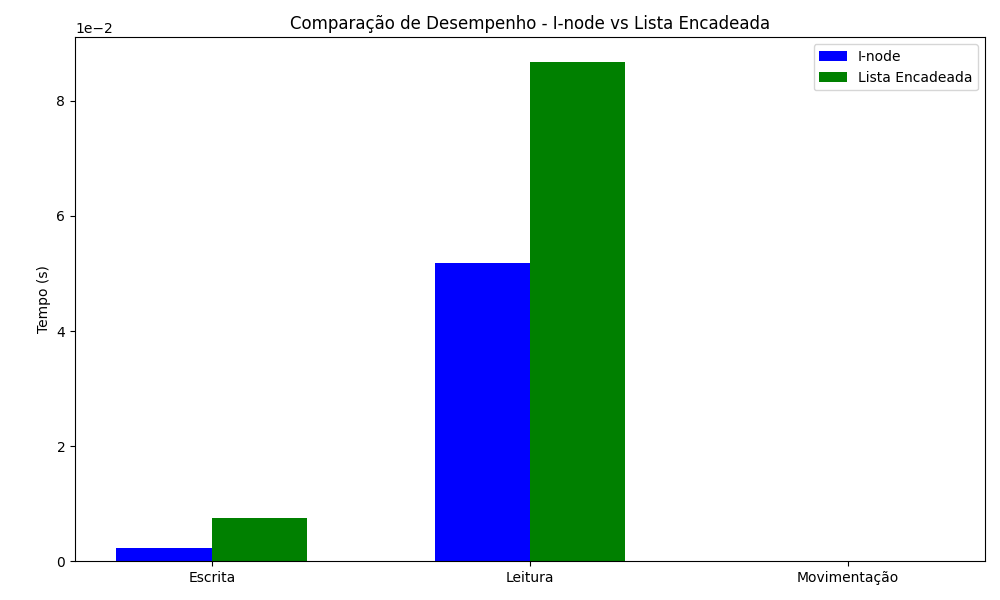
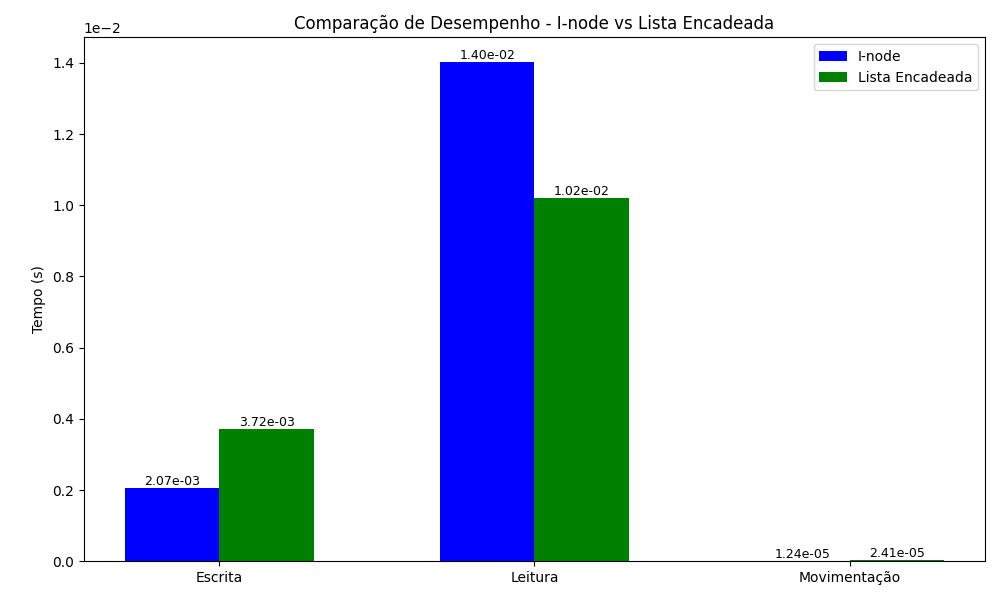
teste: acesso aleatório e navegação

diff --git a/testes/comparar_desempenho.py b/testes/comparar_desempenho.py
@@ -1,7 +1,6 @@
+import random
 import time
 import matplotlib.pyplot as plt
-from inode.file_system_inode import FileSystemInode
-from lista_encadeada.file_system_linked_list import FileSystemLinkedList
 import os
 
 def measure_time(func, *args, **kwargs):
@@ -11,7 +10,7 @@ def measure_time(func, *args, **kwargs):
     return end - start
 
 def performance_test_inode(fs_inode):
-    large_text = "ABCD" * 10000  # 10.000 caracteres
+    large_text = "ABCD" * 10000
 
     fs_inode.touch("bigfile.txt")
 
@@ -23,7 +22,7 @@ def performance_test_inode(fs_inode):
     return [t_write, t_read, t_move]
 
 def performance_test_linked_list(fs_ll):
-    large_text = "ABCD" * 10000  # 10.000 caracteres
+    large_text = "ABCD" * 10000
 
     fs_ll.touch("bigfile.txt")
 
@@ -34,15 +33,39 @@ def performance_test_linked_list(fs_ll):
 
     return [t_write, t_read, t_move]
 
-# Executar testes
-fs_inode = FileSystemInode()
-fs_ll = FileSystemLinkedList()
+def read_random_inode(fs_inode, filename, start, end):
+    inode = fs_inode.current_dir.children[filename]
+    idx_start = start // 4
+    idx_end = end // 4
+    offset_start = start % 4
+    offset_end = end % 4
+
+    data = ""
+    for i in range(idx_start, idx_end + 1):
+        block_id = inode.blocks[i]
+        block_data = fs_inode.block_storage.get(block_id, "")
+        data += block_data
+
+    return data[offset_start:offset_start + (end - start)]
+
+def read_random_linked_list(fs_ll, filename, start, end):
+    file = fs_ll.current_dir.children[filename]
+    current = file.start_block
+    idx = 0
+    result = []
+
+    while current and idx < end:
+        if idx >= start:
+            result.append(current.data)
+        current = current.next_block
+        idx += 1
+
+    return ''.join(result)
 
 def performance_test(fs_inode, fs_ll):
     inode_times = performance_test_inode(fs_inode)
     linked_list_times = performance_test_linked_list(fs_ll)
 
-    # Mostrar resultados no terminal
     print("\n===== Resultados - Sistema I-node =====")
     print(f"Tempo de Escrita: {inode_times[0]:.6f} s")
     print(f"Tempo de Leitura: {inode_times[1]:.6f} s")
@@ -53,7 +76,6 @@ def performance_test(fs_inode, fs_ll):
     print(f"Tempo de Leitura: {linked_list_times[1]:.6f} s")
     print(f"Tempo de Movimentação: {linked_list_times[2]:.6f} s")
 
-    # Plotar gráfico comparativo
     labels = ["Escrita", "Leitura", "Movimentação"]
     x = range(len(labels))
 
@@ -67,7 +89,81 @@ def performance_test(fs_inode, fs_ll):
     plt.tight_layout()
     plt.ticklabel_format(axis='y', style='sci', scilimits=(0, 0))
 
+    for i, v in enumerate(inode_times):
+        plt.text(i - 0.15, v, f"{v:.2e}", ha='center', va='bottom', fontsize=9)
+    for i, v in enumerate(linked_list_times):
+        plt.text(i + 0.15, v, f"{v:.2e}", ha='center', va='bottom', fontsize=9)
+
     os.makedirs("data", exist_ok=True)
     plt.savefig("data/resultado_comparacao.png")
     print("\nGráfico salvo em: data/resultado_comparacao.png")
 
+def create_nested_dirs(fs, depth):
+    for i in range(1, depth + 1):
+        fs.mkdir(f"dir{i}")
+        fs.cd(f"dir{i}")
+
+    for _ in range(depth):
+        fs.cd("..")
+
+def navigation_only(fs, depth):
+    for i in range(1, depth + 1):
+        fs.cd(f"dir{i}")
+
+    for _ in range(depth):
+        fs.cd("..")
+
+def test_random_access(fs_inode, fs_ll, num_tests=10, read_size=1000):
+    inode_times = []
+    ll_times = []
+
+    file_size = fs_inode.current_dir.children["bigfile.txt"].size
+
+    for _ in range(num_tests):
+        start = random.randint(0, file_size - read_size)
+        end = start + read_size
+
+        t_inode = measure_time(read_random_inode, fs_inode, "bigfile.txt", start, end)
+        t_ll = measure_time(read_random_linked_list, fs_ll, "bigfile.txt", start, end)
+
+        inode_times.append(t_inode)
+        ll_times.append(t_ll)
+
+    avg_inode = sum(inode_times) / num_tests
+    avg_ll = sum(ll_times) / num_tests
+
+    print("\n===== Teste Acesso Aleatório =====")
+    print(f"Média (I-node): {avg_inode:.6f} s")
+    print(f"Média (Lista Encadeada): {avg_ll:.6f} s")
+
+    # Gráfico
+    labels = [f"Teste {i+1}" for i in range(num_tests)]
+    x = range(num_tests)
+
+    plt.figure(figsize=(12, 6))
+    plt.bar([i - 0.15 for i in x], inode_times, width=0.3, label='I-node', color='blue')
+    plt.bar([i + 0.15 for i in x], ll_times, width=0.3, label='Lista Encadeada', color='green')
+    plt.xticks(x, labels, rotation=45)
+    plt.ylabel("Tempo (s)")
+    plt.title("Teste de Acesso Aleatório - I-node vs Lista Encadeada")
+    plt.legend()
+    plt.tight_layout()
+    plt.savefig("data/acesso_aleatorio_comparacao.png")
+    print("Gráfico salvo em: data/acesso_aleatorio_comparacao.png")
+
+def test_navigation(fs_inode, fs_ll, depth=100):
+    inode_time = measure_time(navigation_only, fs_inode, depth)
+    ll_time = measure_time(navigation_only, fs_ll, depth)
+
+    print("\n===== Teste de Facilidade de Navegação =====")
+    print(f"Tempo (I-node): {inode_time:.6f} s")
+    print(f"Tempo (Lista Encadeada): {ll_time:.6f} s")
+
+    plt.figure(figsize=(8, 5))
+    plt.bar(['I-node', 'Lista Encadeada'], [inode_time, ll_time], color=['blue', 'green'])
+    plt.ylabel("Tempo (s)")
+    plt.title(f"Facilidade de Navegação (Profundidade {depth})")
+    plt.tight_layout()
+    os.makedirs("data", exist_ok=True)
+    plt.savefig("data/navegacao_comparacao.png")
+    print("Gráfico salvo em: data/navegacao_comparacao.png")

diff --git a/test.py b/test.py
@@ -1,9 +1,18 @@
 from inode.file_system_inode import FileSystemInode
 from lista_encadeada.file_system_linked_list import FileSystemLinkedList
-from testes.comparar_desempenho import performance_test
+from testes.comparar_desempenho import performance_test, test_random_access, test_navigation, create_nested_dirs
 
 if __name__ == "__main__":
     fs_inode = FileSystemInode()
     fs_ll = FileSystemLinkedList()
 
     performance_test(fs_inode, fs_ll)
+
+    fs_inode.cd("dir1")
+    fs_ll.cd("dir1")
+    test_random_access(fs_inode, fs_ll)
+
+    create_nested_dirs(fs_inode, 100)
+    create_nested_dirs(fs_ll, 100)
+
+    test_navigation(fs_inode, fs_ll, depth=100)

diff --git a/inode/file_system_inode.py b/inode/file_system_inode.py
@@ -95,7 +95,7 @@ class FileSystemInode:
             bloco = self.block_storage.get(block_id, "")
             conteudo += bloco
 
-        print(inode.blocks)
+        # print(inode.blocks)
         print(conteudo)
 
     def delete(self, name):
